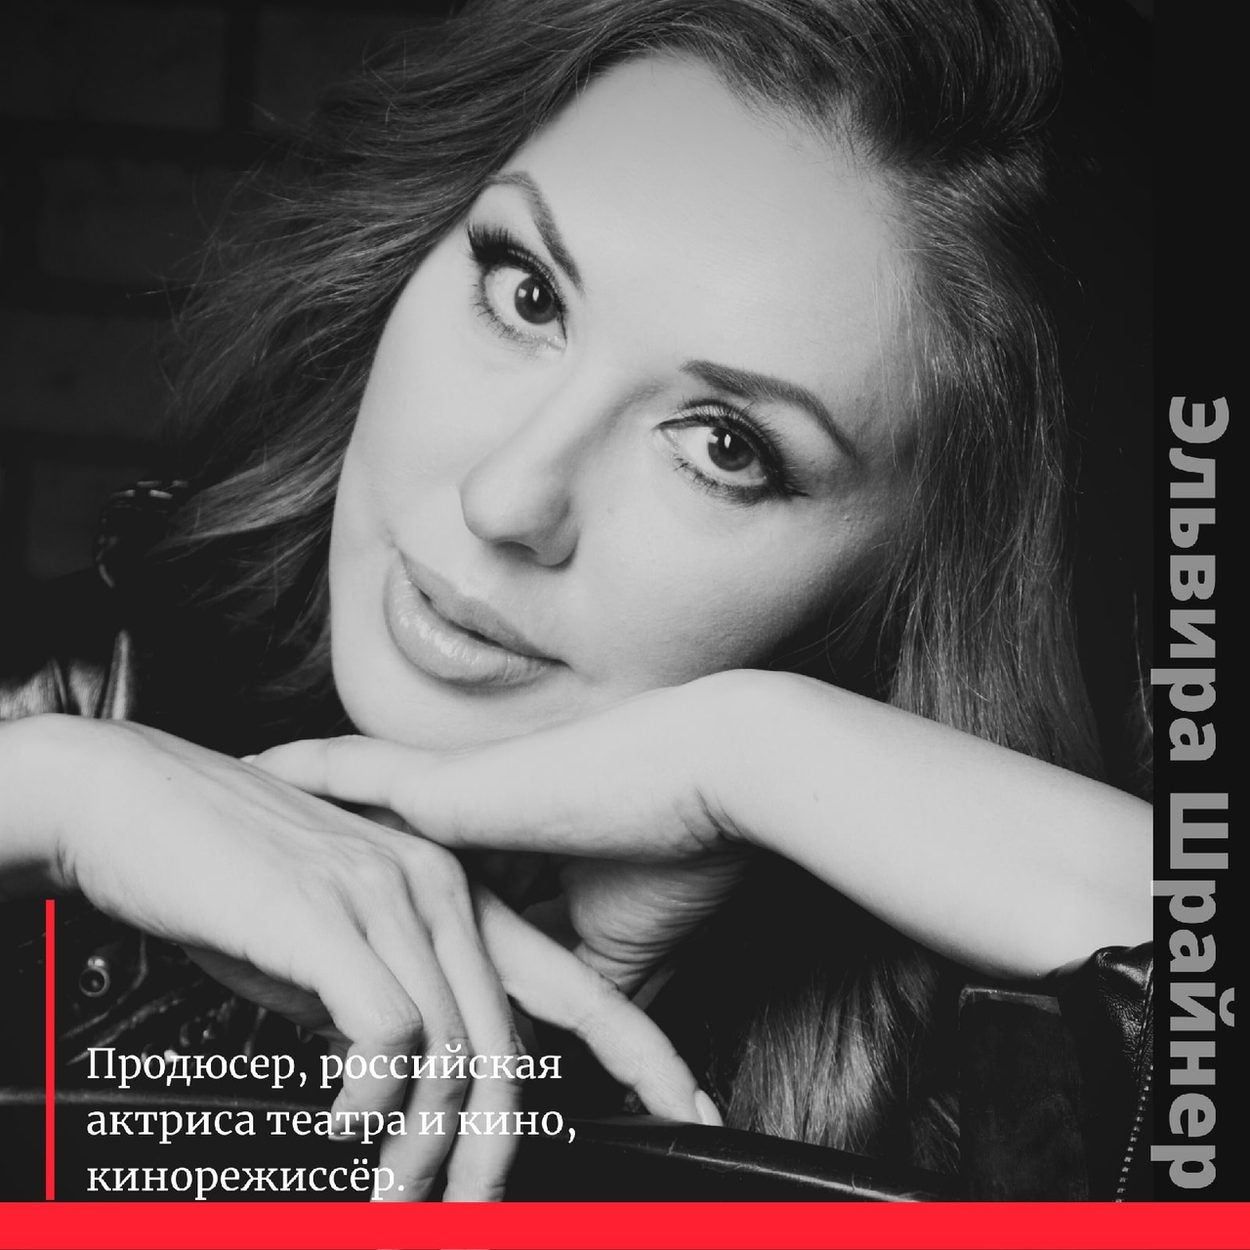
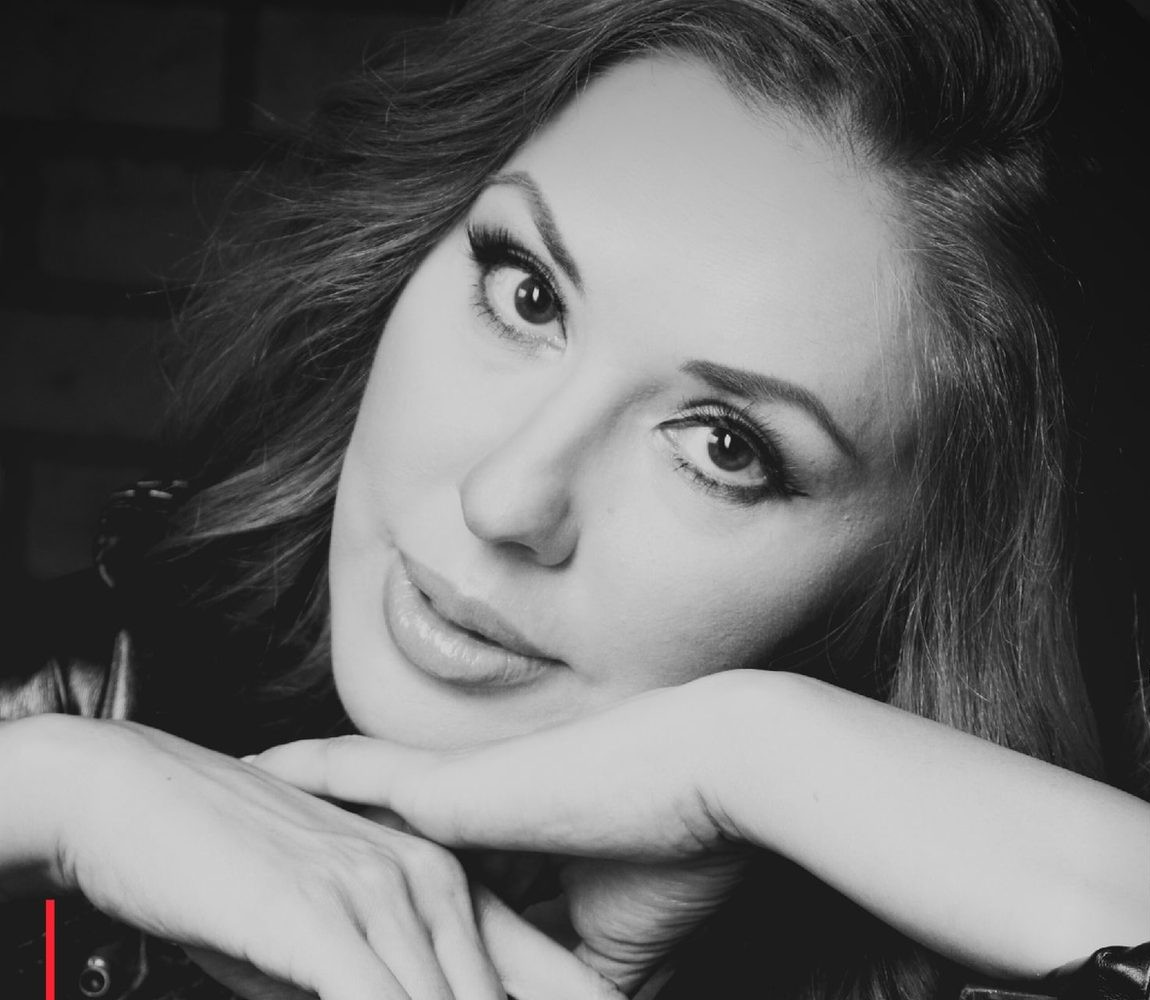
испр на телефоне плашек

diff --git a/data.js b/data.js
@@ -115,6 +115,7 @@ window.SITE = {
         name:  "Татьяна Гридина",
         role:  "Директор АНО РСЗИ «Триумф»",
         photo: "img/people/gridina.jpg",
+        photoPos: "center 25%",
         text:  "Предприниматель и меценат из села Раевский. Татьяна Николаевна придумала «Раевские встречи», продюсирует и оплачивает документальные фильмы об истории края. Она поддержала акцию «Дерево жизни» и сама сажала деревья вместе с земляками, помогла издать книгу стихов земляка и отремонтировать палаты паллиативного отделения Раевской больницы.",
         awards: [
           "Медаль от благодарных жителей Республики Башкортостан. Её вручил Глава республики Радий Хабиров на V форуме проектов «Атайсал» в 2026 году",
@@ -126,6 +127,7 @@ window.SITE = {
         name:  "Кирилл Игнатьев",
         role:  "Менеджер проектов",
         photo: "img/people/ignatiev.jpg",
+        photoPos: "center 40%",
         text:  "Родом из Давлеканово. В 2022 году основал в родном городе сообщество «Зелёное Давлеканово», которое выросло в некоммерческую организацию. Вместе с земляками проводит экологические акции и «Чистые игры», сажает деревья и приводит молодёжь в экологическое добровольчество, в том числе в проекте «Зелёный старт Давлеканово», который поддержал Фонд президентских грантов. Готовит проект кинофестиваля «Земля Альшея». В команде помогает выстраивать проекты, готовить заявки на гранты и проводить детские праздники в кафе «Триумф».",
         awards: [
           "Лауреат национальной премии «Хедлайнеры ESG-принципов»",
@@ -137,6 +139,7 @@ window.SITE = {
         name:  "Луиза Асылгареева",
         role:  "Организатор детских конкурсов и праздников",
         photo: "img/people/asylgareeva.jpg",
+        photoPos: "center 25%",
         text:  "Много лет ведёт благотворительную деятельность в АНО РСЗИ «Триумф», устраивает конкурсы детского творчества для детей с ограниченными возможностями здоровья. На сегодняшний день проведено более двадцати таких конкурсов, в которых приняли участие около 700 детей из разных регионов нашей страны. Является соорганизатором конкурса «Раевские встречи». Также сотрудничает с общественно-политической газетой «Альшеевские вести», где освещает мероприятия, проводимые в нашем сообществе.",
         awards: []
       }
@@ -411,6 +414,7 @@ window.SITE = {
           name:  "Татьяна Гридина",
           role:  "Продюсер",
           photo: "img/people/gridina.jpg",
+          photoPos: "center 25%",
           text:  "Инициатор и продюсер наших фильмов. Находит героев, собирает команду и сама оплачивает съёмки. Когда на фильм о Раеве не удалось получить грант, Татьяна Николаевна сняла его на личные средства.",
           awards: [
             "Специальный приз жюри кинофестиваля «Белая птица» за документально-художественный фильм «Александр Фёдорович Раев»"
@@ -420,6 +424,7 @@ window.SITE = {
           name:  "Эльвира Шрайнер",
           role:  "Режиссёр и автор сценариев",
           photo: "img/people/shrainer.jpg",
+          photoPos: "center 25%",
           text:  "Актриса Национального молодёжного театра имени Мустая Карима. В 2018 году основала кинокомпанию LifeStyle Cinema, а в 2020 году учредила Международный кинофестиваль LifeStyle Cinema. Снимает художественные и документальные фильмы об истории, культуре и выдающихся людях Башкортостана и часто сама играет в них главные роли. В наших фильмах она сыграла Элли Зиберт и Ольгу Книппер.",
           awards: [
             "Заслуженная артистка Республики Башкортостан",
@@ -431,6 +436,7 @@ window.SITE = {
           name:  "Анна Дубакина",
           role:  "Продюсер и художник-постановщик",
           photo: "img/people/dubakina.jpg",
+          photoPos: "center 25%",
           text:  "Исполнительный продюсер кинокомпании LifeStyle Cinema. С 2017 года работает художником-постановщиком и гримёром, а ещё снимает как оператор и монтирует фильмы. Была художником фильмов «Маяковский и две Элли», «А. П. Чехов. Медовый месяц в Башкирии» и «Александр Фёдорович Раев», а в фильме «История одного дома» стала оператором и режиссёром монтажа.",
           awards: []
         },
@@ -438,6 +444,7 @@ window.SITE = {
           name:  "Айрат Туктарев",
           role:  "Оператор",
           photo: "img/people/tuktarev.jpg",
+          photoPos: "center 30%",
           text:  "Оператор наших фильмов. От него зависит, какими зритель увидит героев и места, где они жили. Среди его работ фильм «Травница», который в 2022 году признали лучшим региональным фильмом на кинофестивале в Москве.",
           awards: []
         }

diff --git a/assets/style.css b/assets/style.css
@@ -1341,18 +1341,24 @@ body:not([data-page="home"]) main{ padding-bottom: 65px; }
 
   .person{ grid-template-columns: 1fr; }
   .person{ min-height: 0; }
-  .person__photo{ aspect-ratio: 4 / 3; min-height: 0; }
+  /* портреты вертикальные, поэтому на телефоне кадр квадратный, а не широкий */
+  .person__photo{ aspect-ratio: 1 / 1; min-height: 0; }
+  /* текст прижат к фотографии, без пустоты посередине */
+  .person__body{ align-self: start; min-width: 0; }
+  .person__text{ overflow-wrap: anywhere; }
 
   .partners{ --gap: 8px; }
   .partners .partner{ flex-basis: calc((100% - 2 * var(--gap)) / 3); padding: 7px 7px 9px; gap: 6px; }
   .partner__logo{ height: 58px; }
   .partner__name{ font-size: 11.5px; }
 
-  /* у команды стрелки под карточкой, у точек, чтобы не закрывать текст */
-  .carousel--team .carousel__btn{ top: auto; bottom: -9px; margin-top: 0; width: 34px; height: 34px; }
-  .carousel--team .carousel__btn--prev{ left: calc(50% - 88px); }
-  .carousel--team .carousel__btn--next{ right: calc(50% - 88px); }
-  .carousel__btn{ width: 36px; height: 36px; margin-top: -18px; }
+  /* стрелки по бокам фотографии, чтобы сразу было видно, что карточки листаются */
+  .carousel--team .carousel__btn{ top: 120px; bottom: auto; margin-top: 0; width: 33px; height: 33px; }
+  .carousel--team .carousel__btn--prev{ left: 6px; }
+  .carousel--team .carousel__btn--next{ right: 6px; }
+  .carousel--team .carousel__btn svg{ width: 14px; height: 14px; }
+  .carousel__slide{ scroll-snap-stop: always; }
+  .carousel__btn{ width: 34px; height: 34px; margin-top: -17px; }
 
   .cards{ grid-template-columns: 1fr; gap: 14.5px; }
   .card--wide{ flex-direction: column; }
@@ -1362,8 +1368,6 @@ body:not([data-page="home"]) main{ padding-bottom: 65px; }
   .pager{ grid-template-columns: 1fr; gap: 9px; }
   .pager__link--next{ text-align: left; }
 
-  .doc{ flex-wrap: wrap; }
-  .doc__btn{ margin-left: 59.5px; }
 }
 
 
@@ -1697,9 +1701,41 @@ body.has-sky{ background: #DCE6EE; }
 
   .docs-group__head{ padding: 12px 13px 12px 15px; gap: 9px; }
   .docs-group__title{ font-size: 18px; }
+
   .support__row{ grid-template-columns: 1fr 29px; row-gap: 0; padding: 6.5px 0; }
   .support__row dt{ grid-column: 1 / -1; font-size: 12.5px; }
   .support__row dd{ font-size: 13px; }
+}
+
+/* на узком экране карточка документа складывается в два этажа,
+   иначе название сжимается в колонку по одному слову */
+@media (max-width: 600px){
+
+  .doc{
+    display: grid;
+    grid-template-columns: 45px 1fr;
+    grid-template-areas:
+      "ic body"
+      "btn btn";
+    align-items: start;
+    gap: 13px;
+    padding: 14px 15px 15px;
+  }
+
+  .doc__ic{ grid-area: ic; height: 45px; }
+  .doc__body{ grid-area: body; }
+  .doc__title{ font-size: 15.5px; }
+  .doc__meta{ margin-top: 4px; }
+
+  .doc__btn,
+  .doc__btn--off{
+    grid-area: btn;
+    grid-column: 1 / -1;
+    padding: 11px 18px;
+    margin-left: 0;
+    text-align: center;
+    font-size: 14px;
+  }
 }
 
 @media (prefers-reduced-motion: reduce){

diff --git a/assets/app.js b/assets/app.js
@@ -76,7 +76,7 @@
       '<svg viewBox="0 0 24 24" fill="none" stroke="currentColor" stroke-width="2.2" stroke-linecap="round">' +
       '<path d="M6 6l12 12M18 6 6 18"/></svg>',
 
-    chevron:
+    chevronDown:
       '<svg viewBox="0 0 24 24" fill="none" stroke="currentColor" stroke-width="2.4" stroke-linecap="round" stroke-linejoin="round">' +
       '<path d="m6 9 6 6 6-6"/></svg>',
 
@@ -153,9 +153,11 @@
            '<span>' + esc(label || 'фото') + '</span></div>';
   }
 
-  function media(src, alt, label) {
+  /* pos — какую часть снимка показывать в кадре, например «center 40%» */
+  function media(src, alt, label, pos) {
     return src
-      ? '<img src="' + esc(src) + '" alt="' + esc(alt || '') + '" loading="lazy">'
+      ? '<img src="' + esc(src) + '" alt="' + esc(alt || '') + '" loading="lazy"' +
+        (pos ? ' style="object-position:' + esc(pos) + '"' : '') + '>'
       : ph(label);
   }
 
@@ -644,7 +646,7 @@
   function person(p) {
     var awards = p.awards || [];
     return '<article class="person">' +
-             '<div class="person__photo">' + media(p.photo, p.name, 'фото') + '</div>' +
+             '<div class="person__photo">' + media(p.photo, p.name, 'фото', p.photoPos) + '</div>' +
              '<div class="person__body">' +
                '<h3 class="person__name">' + esc(p.name) + '</h3>' +
                '<p class="person__role">' + esc(p.role) + '</p>' +
@@ -928,7 +930,7 @@
                              '<button class="docs-group__head" type="button" aria-expanded="false" aria-controls="' + id + '">' +
                                '<span class="docs-group__title">' + esc(g.title) + '</span>' +
                                (count ? '<span class="docs-group__count">' + count + '</span>' : '') +
-                               '<span class="docs-group__arrow" aria-hidden="true">' + ICONS.chevron + '</span>' +
+                               '<span class="docs-group__arrow" aria-hidden="true">' + ICONS.chevronDown + '</span>' +
                              '</button>' +
                            '</h2>' +
                            '<div class="docs-group__body" id="' + id + '" hidden>' +

diff --git a/404.html b/404.html
@@ -22,7 +22,7 @@
 <link rel="preconnect" href="https://fonts.googleapis.com">
 <link rel="preconnect" href="https://fonts.gstatic.com" crossorigin>
 <link rel="stylesheet" href="https://fonts.googleapis.com/css2?family=Spectral:wght@400;500;600;700&amp;display=swap">
-<link rel="stylesheet" href="assets/style.css?v=20260920-2031">
+<link rel="stylesheet" href="assets/style.css?v=20260920-2145">
 </head>
 <body data-page="notfound">
 
@@ -40,7 +40,7 @@
 
 <div class="panorama" id="panorama" role="img" aria-label="Станция Раевка и деревянная церковь"></div>
 
-<script src="data.js?v=20260920-2031"></script>
-<script src="assets/app.js?v=20260920-2031"></script>
+<script src="data.js?v=20260920-2145"></script>
+<script src="assets/app.js?v=20260920-2145"></script>
 </body>
 </html>

diff --git a/projects.html b/projects.html
@@ -15,7 +15,7 @@
 <link rel="preconnect" href="https://fonts.googleapis.com">
 <link rel="preconnect" href="https://fonts.gstatic.com" crossorigin>
 <link rel="stylesheet" href="https://fonts.googleapis.com/css2?family=Spectral:wght@400;500;600;700&amp;display=swap">
-<link rel="stylesheet" href="assets/style.css?v=20260920-2031">
+<link rel="stylesheet" href="assets/style.css?v=20260920-2145">
 </head>
 <body data-page="projects">
 
@@ -33,7 +33,7 @@
 
 <div class="panorama" id="panorama" role="img" aria-label="Станция Раевка и деревянная церковь"></div>
 
-<script src="data.js?v=20260920-2031"></script>
-<script src="assets/app.js?v=20260920-2031"></script>
+<script src="data.js?v=20260920-2145"></script>
+<script src="assets/app.js?v=20260920-2145"></script>
 </body>
 </html>

diff --git a/mission.html b/mission.html
@@ -15,7 +15,7 @@
 <link rel="preconnect" href="https://fonts.googleapis.com">
 <link rel="preconnect" href="https://fonts.gstatic.com" crossorigin>
 <link rel="stylesheet" href="https://fonts.googleapis.com/css2?family=Spectral:wght@400;500;600;700&amp;display=swap">
-<link rel="stylesheet" href="assets/style.css?v=20260920-2031">
+<link rel="stylesheet" href="assets/style.css?v=20260920-2145">
 </head>
 <body data-page="mission">
 
@@ -33,7 +33,7 @@
 
 <div class="panorama" id="panorama" role="img" aria-label="Станция Раевка и деревянная церковь"></div>
 
-<script src="data.js?v=20260920-2031"></script>
-<script src="assets/app.js?v=20260920-2031"></script>
+<script src="data.js?v=20260920-2145"></script>
+<script src="assets/app.js?v=20260920-2145"></script>
 </body>
 </html>

diff --git a/project.html b/project.html
@@ -15,7 +15,7 @@
 <link rel="preconnect" href="https://fonts.googleapis.com">
 <link rel="preconnect" href="https://fonts.gstatic.com" crossorigin>
 <link rel="stylesheet" href="https://fonts.googleapis.com/css2?family=Spectral:wght@400;500;600;700&amp;display=swap">
-<link rel="stylesheet" href="assets/style.css?v=20260920-2031">
+<link rel="stylesheet" href="assets/style.css?v=20260920-2145">
 </head>
 <body data-page="project">
 
@@ -33,7 +33,7 @@
 
 <div class="panorama" id="panorama" role="img" aria-label="Станция Раевка и деревянная церковь"></div>
 
-<script src="data.js?v=20260920-2031"></script>
-<script src="assets/app.js?v=20260920-2031"></script>
+<script src="data.js?v=20260920-2145"></script>
+<script src="assets/app.js?v=20260920-2145"></script>
 </body>
 </html>

diff --git a/reports.html b/reports.html
@@ -15,7 +15,7 @@
 <link rel="preconnect" href="https://fonts.googleapis.com">
 <link rel="preconnect" href="https://fonts.gstatic.com" crossorigin>
 <link rel="stylesheet" href="https://fonts.googleapis.com/css2?family=Spectral:wght@400;500;600;700&amp;display=swap">
-<link rel="stylesheet" href="assets/style.css?v=20260920-2031">
+<link rel="stylesheet" href="assets/style.css?v=20260920-2145">
 </head>
 <body data-page="reports">
 
@@ -33,7 +33,7 @@
 
 <div class="panorama" id="panorama" role="img" aria-label="Станция Раевка и деревянная церковь"></div>
 
-<script src="data.js?v=20260920-2031"></script>
-<script src="assets/app.js?v=20260920-2031"></script>
+<script src="data.js?v=20260920-2145"></script>
+<script src="assets/app.js?v=20260920-2145"></script>
 </body>
 </html>

diff --git a/cinema.html b/cinema.html
@@ -15,7 +15,7 @@
 <link rel="preconnect" href="https://fonts.googleapis.com">
 <link rel="preconnect" href="https://fonts.gstatic.com" crossorigin>
 <link rel="stylesheet" href="https://fonts.googleapis.com/css2?family=Spectral:wght@400;500;600;700&amp;display=swap">
-<link rel="stylesheet" href="assets/style.css?v=20260920-2031">
+<link rel="stylesheet" href="assets/style.css?v=20260920-2145">
 </head>
 <body data-page="films">
 
@@ -33,7 +33,7 @@
 
 <div class="panorama" id="panorama" role="img" aria-label="Станция Раевка и деревянная церковь"></div>
 
-<script src="data.js?v=20260920-2031"></script>
-<script src="assets/app.js?v=20260920-2031"></script>
+<script src="data.js?v=20260920-2145"></script>
+<script src="assets/app.js?v=20260920-2145"></script>
 </body>
 </html>

diff --git a/film.html b/film.html
@@ -15,7 +15,7 @@
 <link rel="preconnect" href="https://fonts.googleapis.com">
 <link rel="preconnect" href="https://fonts.gstatic.com" crossorigin>
 <link rel="stylesheet" href="https://fonts.googleapis.com/css2?family=Spectral:wght@400;500;600;700&amp;display=swap">
-<link rel="stylesheet" href="assets/style.css?v=20260920-2031">
+<link rel="stylesheet" href="assets/style.css?v=20260920-2145">
 </head>
 <body data-page="film">
 
@@ -33,7 +33,7 @@
 
 <div class="panorama" id="panorama" role="img" aria-label="Станция Раевка и деревянная церковь"></div>
 
-<script src="data.js?v=20260920-2031"></script>
-<script src="assets/app.js?v=20260920-2031"></script>
+<script src="data.js?v=20260920-2145"></script>
+<script src="assets/app.js?v=20260920-2145"></script>
 </body>
 </html>

diff --git a/index.html b/index.html
@@ -15,7 +15,7 @@
 <link rel="preconnect" href="https://fonts.googleapis.com">
 <link rel="preconnect" href="https://fonts.gstatic.com" crossorigin>
 <link rel="stylesheet" href="https://fonts.googleapis.com/css2?family=Spectral:wght@400;500;600;700&amp;display=swap">
-<link rel="stylesheet" href="assets/style.css?v=20260920-2031">
+<link rel="stylesheet" href="assets/style.css?v=20260920-2145">
 </head>
 <body data-page="home">
 
@@ -40,7 +40,7 @@
 
 <div class="panorama" id="panorama" role="img" aria-label="Станция Раевка и деревянная церковь"></div>
 
-<script src="data.js?v=20260920-2031"></script>
-<script src="assets/app.js?v=20260920-2031"></script>
+<script src="data.js?v=20260920-2145"></script>
+<script src="assets/app.js?v=20260920-2145"></script>
 </body>
 </html>
